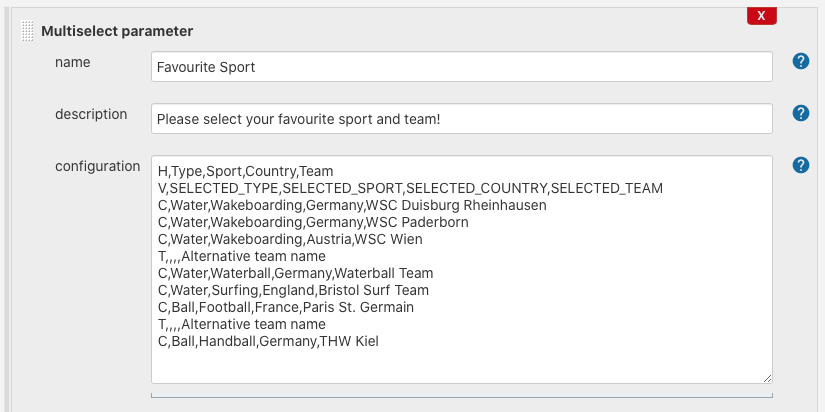
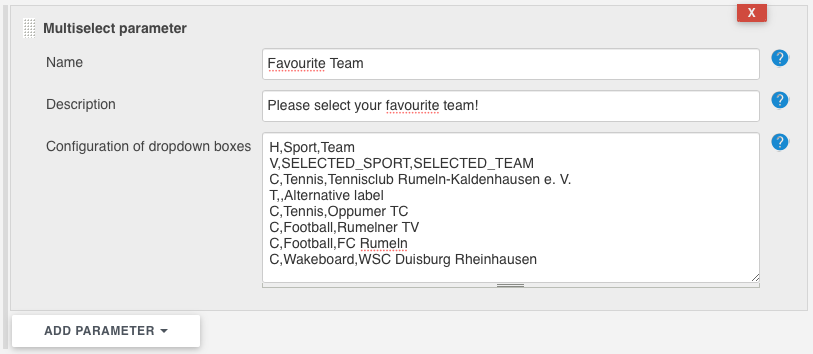
Suggested updates from hosting request, changes in README

diff --git a/README.md b/README.md
@@ -1,4 +1,4 @@
-# Multiselect Parameters Plugin
+# Multiselect Parameter Plugin
 
 ## Introduction
 
@@ -32,17 +32,14 @@ In the following simple example, the "build with parameters" step requests to se
 a number of sports categories and countries.
  
 ```csv
-H,Type,Sport,Country,Team
-V,SELECTED_TYPE,SELECTED_SPORT,SELECTED_COUNTRY,SELECTED_TEAM
-C,Water,Wakeboarding,Germany,WSC Duisburg Rheinhausen
-C,Water,Wakeboarding,Germany,WSC Paderborn
-C,Water,Wakeboarding,Austria,WSC Wien
-T,,,,Alternative team name
-C,Water,Waterball,Germany,Waterball Team
-C,Water,Surfing,England,Bristol Surf Team
-C,Ball,Football,France,Paris St. Germain
-T,,,,Alternative team name
-C,Ball,Handball,Germany,THW Kiel
+H,Sport,Team
+V,SELECTED_SPORT,SELECTED_TEAM
+C,Tennis,Tennisclub Rumeln-Kaldenhausen e. V.
+T,,Alternative label
+C,Tennis,Oppumer TC
+C,Football,Rumelner TV
+C,Football,FC Rumeln
+C,Wakeboard,WSC Duisburg Rheinhausen
 ```
 
 This will display two drop down boxes. One with the label "Sport", one with the label "Team".
